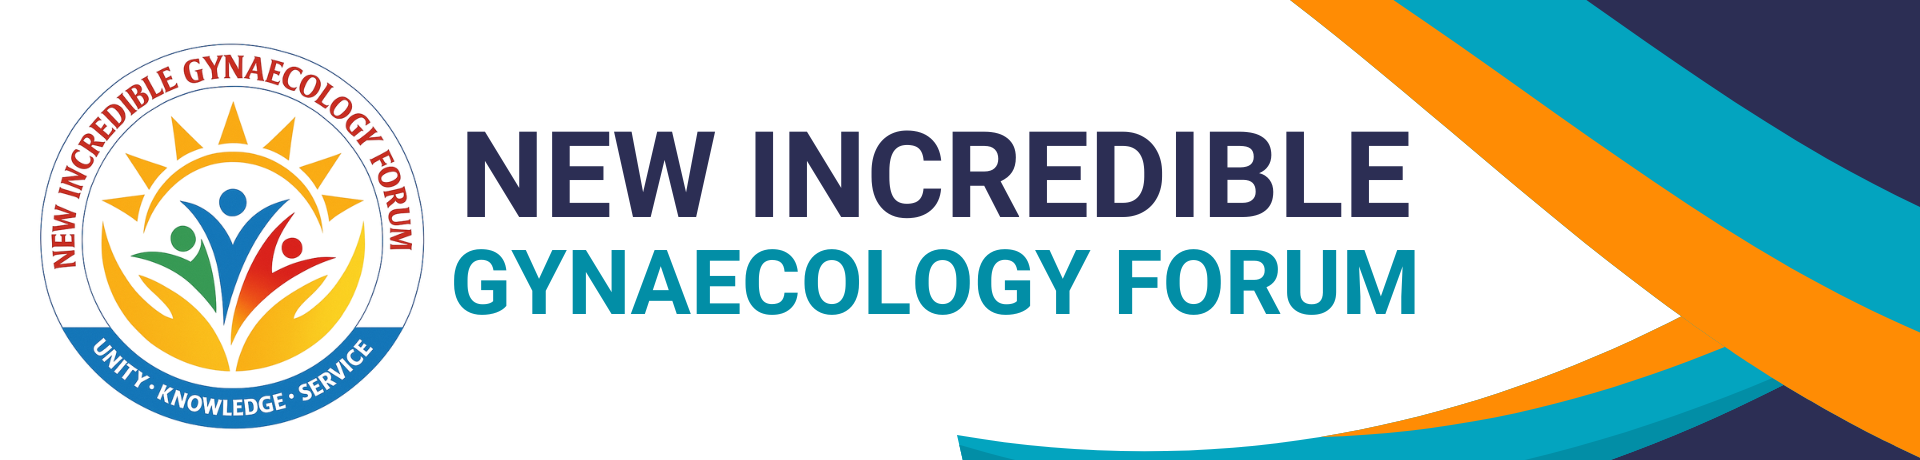
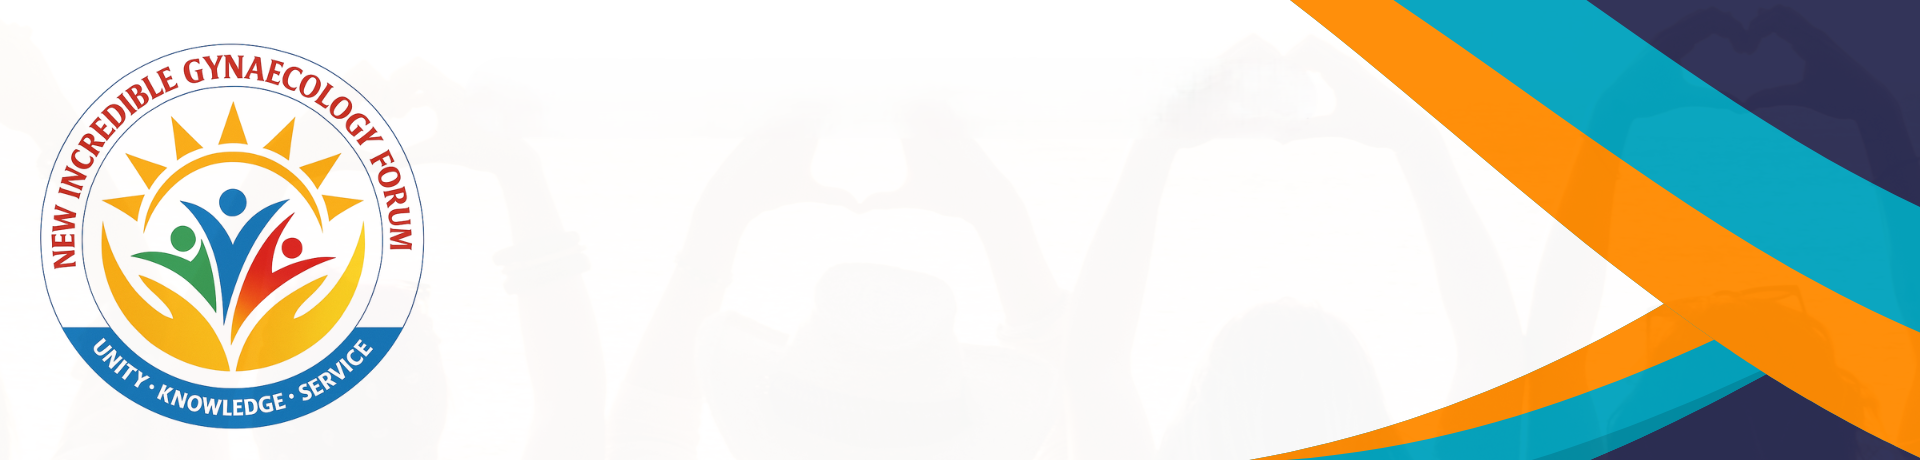
Updated

diff --git a/index.html b/index.html
@@ -206,7 +206,7 @@
                     <!-- Start Main Slider One Single-->
                     <div class="main-slider-one__single">
                         <div class="main-slider-one__bg"
-                            style="background-image: url(assets/images/backgrounds/NIFG1.jpg);"></div>
+                            style="background-image: url(assets/images/backgrounds/NIFG1copy.jpg);"></div>
                         
                     </div>
                     <!--End Main Slider One Single-->
@@ -214,28 +214,16 @@
                     <!-- Start Main Slider One Single-->
                     <div class="main-slider-one__single">
                         <div class="main-slider-one__bg"
-                            style="background-image: url(assets/images/backgrounds/NIGF2.jpg);"></div>
+                            style="background-image: url(assets/images/backgrounds/NIGFcopy.jpg);"></div>
 
-                        <div class="container d-none">
-                            <div class="main-slider-one__content">
-                                <div class="main-slider-one__sub-title">
-                                    <div class="line"></div>
-                                    <p>Always Donate For Children's </p>
-                                </div>
-                                <div class="main-slider-one__title">
-                                    <h2>Your Kindness Can <br> Light Up Lives</h2>
-                                </div>
-                                <div class="main-slider-one__text">
-                                    <p>Join our mission to provide food, shelter, education, and hope to communities in
-                                        <br>
-                                        need. Every act of kindness brings us closer to a better world</p>
-                                </div>
-                                <div class="main-slider-one__btn">
-                                    <a href="contact.html" class="thm-btn">Discover Now <span
-                                            class="icon-diagonal-arrow1"></span></a>
-                                </div>
-                            </div>
-                        </div>
+                    </div>
+                    <!--End Main Slider One Single-->
+
+                    <!-- Start Main Slider One Single-->
+                    <div class="main-slider-one__single">
+                        <div class="main-slider-one__bg"
+                            style="background-image: url(assets/images/backgrounds/NIFGMissioncopy.jpg);"></div>
+
                     </div>
                     <!--End Main Slider One Single-->
 
@@ -322,7 +310,7 @@
                     <!--Start About One Img-->
                     <div class="col-xl-6 wow fadeInLeft" data-wow-delay="0ms" data-wow-duration="1500ms">
                         <div class="about-one__img">
-                            <img src="assets/images/resources/ngflogo.png" alt="" class="w-75">
+                            <img src="assets/images/resources/abtnigf.png" alt="NIGF" class="w-75">
                             
                             
                         </div>
@@ -361,6 +349,142 @@
             </div>
         </div>
         <!--End About One-->
+
+        <!--Start  Sharda Jain Keynote-->
+        <section class="why-choose-one">
+            <div class="why-choose-one__pattern"
+                style="background-image: url(assets/images/pattern/why-choose-v1-pattern.jpg);"></div>
+            <div class="shape1"><img src="assets/images/shapes/why-choose-v1-shape1.png" alt=""></div>
+            <div class="shape2"><img src="assets/images/shapes/why-choose-v1-shape2.png" alt=""></div>
+            <div class="container">
+                <div class="row">
+
+                    <!--Start Why Choose One Img-->
+                    <div class="col-xl-6">
+                        <div class="why-choose-one__img clearfix">
+                            
+                            <div class="why-choose-one__img2">
+                                <img src="assets/images/Dr-Sharda Jain.png" alt="">
+                            </div>
+                        </div>
+                    </div>
+                    <!--End Why Choose One Img-->
+
+                    <!--Start Why Choose One Content-->
+                    <div class="col-xl-6">
+                        <div class="why-choose-one__content">
+                            <div class="sec-title sec-title-animation animation-style2">
+                                <div class="sec-title__tagline">
+                                    <div class="left-line"></div>
+                                    <div class="text">
+                                        <h4>Dr. Sharda Jain Keynote</h4>
+                                    </div>
+                                </div>
+                            </div>
+
+                            <div class="why-choose-one__content-text1">
+                                <p>It is great pleasure to welcome you all in North India Gynaecologist Forum
+                                    (NIGF) After many years of uncertainty, NIGF has taken shape & founded on
+                                    20/07/2022 with support of 101 stallwarts, representing 8 states & 2 union
+                                    territories i.e. Kashmir , Jammu , Himachal , Chandigarh , Punjab , Haryana ,
+                                    Delhi , Uttrakhand, Uttarpradesh , Rajsthan Government of India's spent on us
+                                    4 crores of public exchanger money to makes a doctor and specialist.
+                                </p>
+                                <p>
+                                     Now our
+                                    job is to give back with interest by making women and girls of this country
+                                    healthy. Think tank of NIGF identified five clear, important doable health
+                                    challenges facing the doctors, women and girls of India where gynaecologist
+                                    can contribute tremendously to set them right. And these are Anemia Mukt
+                                    Bharat / Cervical Cancer Mukt Bharat / The State of ART Examination of Rape
+                                    Survivor / decrease PPH mortality to 50% in the next 4 years / Regain unity and
+                                    dignity of medical fraternity and save doctors from public violence and
+                                    litigations.
+                                </p>
+                                <p> The key to growth and excellence in performance in these key areas
+                                    has few fundamentals We talk the same language and do update our self with
+                                    NIGF training material ; Doing the doable, sharing vision / mission , sharing
+                                    solutions. Become Ambassador and step out of our comfort zone & do social
+                                    networking to train our large force of NIGF member and others do job with
+                                    100% dedication & security in nation building . I am sure NIGF will become
+                                    largest vibrant academic platform for knowledge exchange, medico legal
+                                    awareness , unity of doctors & where every member matters.</p>
+                            </div>
+
+                        </div>
+                    </div>
+                    <!--End Why Choose One Content-->
+
+                </div>
+            </div>
+        </section>
+        <!--End  Sharda Jain Keynote-->
+
+        <!--Start President Message-->
+        <section class="why-choose-one">
+            <div class="why-choose-one__pattern"
+                style="background-image: url(assets/images/pattern/why-choose-v1-pattern.jpg);"></div>
+            <div class="shape1"><img src="assets/images/shapes/why-choose-v1-shape1.png" alt=""></div>
+            <div class="shape2"><img src="assets/images/shapes/why-choose-v1-shape2.png" alt=""></div>
+            <div class="container">
+                <div class="row">
+                    <!--Start Why Choose One Content-->
+                    <div class="col-xl-6">
+                        <div class="why-choose-one__content">
+                            <div class="sec-title sec-title-animation animation-style2">
+                                <div class="sec-title__tagline">
+                                    <div class="left-line"></div>
+                                    <div class="text">
+                                        <h4>President's Keynote</h4>
+                                    </div>
+                                </div>
+                                <h2 class="sec-title__title title-animation">Namaskar and Warm Greetings,
+                                </h2>
+                            </div>
+
+                            <div class="why-choose-one__content-text1">
+                                <p>It is with great honor and humility that I take on the responsibility of leading the
+                                    New Incredible Gynaecology Forum (NIGF). This forum is not just an
+                                    association, but a vision—built to bring together the Ob-Gyn fraternity of North
+                                    India with a shared commitment to women’s health.
+                                </p>
+                                <p>
+                                    At NIGF, we believe: <br>
+                                    “To care for a woman’s health is to safeguard the health of generations.”
+                                    Our mission is to provide a platform that fosters collaboration, encourages
+                                    innovation, and drives impactful initiatives in clinical practice, research, and
+                                    education. Leadership, for me, is not about position—it is about creating
+                                    opportunities for growth, inclusivity, and meaningful change.
+                                </p>
+                            </div>
+
+                        </div>
+                    </div>
+                    <!--End Why Choose One Content-->
+
+                    <!--Start Why Choose One Img-->
+                    <div class="col-xl-6">
+                        <div class="why-choose-one__img clearfix">
+                            <div class="why-choose-one__img1">
+                                <div class="why-choose-one__img-experince">
+                                    <div class="why-choose-one__img-experince-inner" style="background-color: gray;">
+                                        <div class="count-text">
+                                            <h2><span class="odometer" data-count="25"></span>+</h2>
+                                        </div>
+                                        <p>Years of <br> Experiences</p>
+                                    </div>
+                                </div>
+                            </div>
+                            <div class="why-choose-one__img2">
+                                <img src="assets/images/DrRagini.png" alt="">
+                            </div>
+                        </div>
+                    </div>
+                    <!--End Why Choose One Img-->
+                </div>
+            </div>
+        </section>
+        <!--End President Message-->
 
         <!--Start Bearers One-->
         <section class="cause-one">
@@ -568,7 +692,7 @@
                                     <div class="shape1"><img src="assets/images/shapes/cause-v1-shape1.png" alt="">
                                     </div>
                                     <div class="cause-one__single-img">
-                                        <img src="assets/images/nigf office/22.png" alt="">
+                                        <img src="assets/images/nigf office/23.png" alt="">
                                     </div>
                                     <div class="cause-one__single-content text-center">
                                         <h2>Dr kamal Bakshi</h2>
@@ -583,7 +707,7 @@
                                     <div class="shape1"><img src="assets/images/shapes/cause-v1-shape1.png" alt="">
                                     </div>
                                     <div class="cause-one__single-img">
-                                        <img src="assets/images/nigf office/23.png" alt="">
+                                        <img src="assets/images/nigf office/30.png" alt="">
                                     </div>
                                     <div class="cause-one__single-content text-center">
                                         <h2>Dr Usha Sharma</h2>
@@ -806,72 +930,6 @@
             </div>
         </section>
         <!--End Advisors One-->
-
-        <!--Start President Message-->
-        <section class="why-choose-one">
-            <div class="why-choose-one__pattern"
-                style="background-image: url(assets/images/pattern/why-choose-v1-pattern.jpg);"></div>
-            <div class="shape1"><img src="assets/images/shapes/why-choose-v1-shape1.png" alt=""></div>
-            <div class="shape2"><img src="assets/images/shapes/why-choose-v1-shape2.png" alt=""></div>
-            <div class="container">
-                <div class="row">
-                    <!--Start Why Choose One Content-->
-                    <div class="col-xl-6">
-                        <div class="why-choose-one__content">
-                            <div class="sec-title sec-title-animation animation-style2">
-                                <div class="sec-title__tagline">
-                                    <div class="left-line"></div>
-                                    <div class="text">
-                                        <h4>President's Keynote</h4>
-                                    </div>
-                                </div>
-                                <h2 class="sec-title__title title-animation">Namaskar and Warm Greetings,
-                                </h2>
-                            </div>
-
-                            <div class="why-choose-one__content-text1">
-                                <p>It is with great honor and humility that I take on the responsibility of leading the
-                                    New Incredible Gynaecology Forum (NIGF). This forum is not just an
-                                    association, but a vision—built to bring together the Ob-Gyn fraternity of North
-                                    India with a shared commitment to women’s health.
-                                </p>
-                                <p>
-                                    At NIGF, we believe: <br>
-                                    “To care for a woman’s health is to safeguard the health of generations.”
-                                    Our mission is to provide a platform that fosters collaboration, encourages
-                                    innovation, and drives impactful initiatives in clinical practice, research, and
-                                    education. Leadership, for me, is not about position—it is about creating
-                                    opportunities for growth, inclusivity, and meaningful change.
-                                </p>
-                            </div>
-
-                        </div>
-                    </div>
-                    <!--End Why Choose One Content-->
-
-                    <!--Start Why Choose One Img-->
-                    <div class="col-xl-6">
-                        <div class="why-choose-one__img clearfix">
-                            <div class="why-choose-one__img1">
-                                <div class="why-choose-one__img-experince">
-                                    <div class="why-choose-one__img-experince-inner" style="background-color: gray;">
-                                        <div class="count-text">
-                                            <h2><span class="odometer" data-count="25"></span>+</h2>
-                                        </div>
-                                        <p>Years of <br> Experiences</p>
-                                    </div>
-                                </div>
-                            </div>
-                            <div class="why-choose-one__img2">
-                                <img src="assets/images/DrRagini.png" alt="">
-                            </div>
-                        </div>
-                    </div>
-                    <!--End Why Choose One Img-->
-                </div>
-            </div>
-        </section>
-        <!--End President Message-->
 
         <!--Start Services One-->
         <section class="services-one">

diff --git a/team.html b/team.html
@@ -468,6 +468,62 @@
         </section>
         <!--End Bearers One-->
 
+        <!--Start President Message-->
+        <section class="why-choose-one">
+            <div class="why-choose-one__pattern"
+                style="background-image: url(assets/images/pattern/why-choose-v1-pattern.jpg);"></div>
+            <div class="shape1"><img src="assets/images/shapes/why-choose-v1-shape1.png" alt=""></div>
+            <div class="shape2"><img src="assets/images/shapes/why-choose-v1-shape2.png" alt=""></div>
+            <div class="container">
+                <div class="row">
+                    <!--Start Why Choose One Content-->
+                    <div class="col-xl-6">
+                        <div class="why-choose-one__content">
+                            <div class="sec-title sec-title-animation animation-style2">
+                                <div class="sec-title__tagline">
+                                    <div class="left-line"></div>
+                                    <div class="text">
+                                        <h4>Imm Past President</h4>
+                                    </div>
+                                </div>
+                                <h2 class="sec-title__title title-animation">Dr Sadhna Gupta
+                                </h2>
+                            </div>
+
+                            <div class="why-choose-one__content-text1">
+                                <p>It is with great honor and humility that I take on the responsibility of leading the
+                                    New Incredible Gynaecology Forum (NIGF). This forum is not just an
+                                    association, but a vision—built to bring together the Ob-Gyn fraternity of North
+                                    India with a shared commitment to women’s health.
+                                </p>
+                                <p>
+                                    At NIGF, we believe: <br>
+                                    “To care for a woman’s health is to safeguard the health of generations.”
+                                    Our mission is to provide a platform that fosters collaboration, encourages
+                                    innovation, and drives impactful initiatives in clinical practice, research, and
+                                    education. Leadership, for me, is not about position—it is about creating
+                                    opportunities for growth, inclusivity, and meaningful change.
+                                </p>
+                            </div>
+
+                        </div>
+                    </div>
+                    <!--End Why Choose One Content-->
+
+                    <!--Start Why Choose One Img-->
+                    <div class="col-xl-6">
+                        <div class="why-choose-one__img clearfix">
+                            <div class="why-choose-one__img2">
+                                <img src="assets/images/nigf office/dr sadhana.png" alt="">
+                            </div>
+                        </div>
+                    </div>
+                    <!--End Why Choose One Img-->
+                </div>
+            </div>
+        </section>
+        <!--End President Message-->
+
         <!--Start Advisor Team Two-->
         <section class="team-one team-one--two">
             <div class="container">

diff --git a/team-details.html b/team-details.html
@@ -223,7 +223,7 @@
                 <!--Start Team Details Top-->
                 <div class="team-details__top">
                     <div class="team-details__top-img">
-                        <img src="assets/images/nigf office/DR Ragini.png" alt="">
+                        <img src="assets/images/DrRagini.png" alt="">
                     </div>
 
                     <div class="team-details__top-content">
